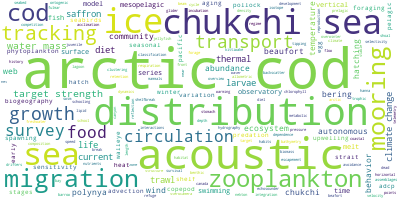
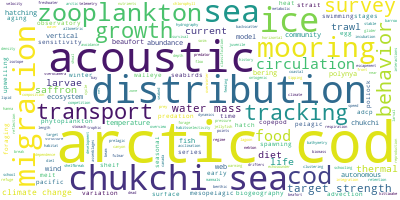
robinson

diff --git a/papers/ecology/Robinson2019MEPS.md b/papers/ecology/Robinson2019MEPS.md
@@ -1,0 +1,56 @@
+04/05/19
+## Authors:
+Robinson, H.E., and Strickler, J.R. and Henderson, M.J. and Hartline, D.K. and Lenz, P.H.
+## Title:
+Predation strategies of larval clownfish capturing evasive copepod prey
+## Keywords:
+feeding, behavior, predator-prey, larval fish
+## Geographic Coverage
+N/A
+## Field Dates:
+N/A
+## Significance:
+
+
+## Notes:
+Individual models are important for predicting animal recruitment success, though they are difficult to parameterize.
+
+Transition to feeding is a critical point in growth/success of larval fishes, and foraging models are typically focused on predator-prey encounter rates which highlight how match-mismatch in abundances and encounter rates impact growth and survival, but ignore post-encounter outcomes.  This paper examines the kinematics of clownfish predation on copepods.
+
+Copepods, the main prey of larval fish, can be highly evasive, and there is low prey capture rates particularly among smaller larval fish.  Post-encounter success was measured as a function of larval fish age and copepod developmental stage.
+
+Larval fish were fed rotifers or copepods, which were grown in batches to have multiple stages.  A high speed camera (single) was used to capture footage of the feeding attempts.  Two types of experiments were done:
+  - An experiment to determine what day post-hatch fish started to capture adult copepods
+  - behavioral experiments using 4 stages of copepods with fish of different age groups post-hatch
+
+Video analysis was done to track the tip of the fish's mouth and the center of the copepod.  Behavioral measurements were classified and measured for 3 categories, using different frame rates to make measurements at each one:
+- Approach phase, when the fish is positioning itself towards prey
+- Positioning of the body before strike
+- Strike when mouth is opened and lunge occurs
+
+Copepod measurements were also tracked to identify any escape behavior relative to the timing of the strike.
+
+Results
+- Fish were successful at capturing prey, beginning at 1 dph.
+- 243 strikes were recorded, of which 156 were successful (64%), the remaining failed or escape occured
+- Larval fish did not successfully capture adult cops until 7 dph, and fish from 6 - 9 dph attempted to capture all prey classes, fish > 9 dph no longer targeted nauplii and fish > 12 dph no longer targeted early copepodites
+
+Five behavioral markers were identified during feeding: 1) reorientation towards food 2) intial approach with normal swim mechanics 3) slower "sculling" approach without using caudal fin 4) final positioning and 5) strike.  
+
+Successful strikes
+- Final approach phase was short, < .5-1 s, with older fish taking ~40% less time to "set up" the attack
+- Swim speeds during the sculling phase were slow and steady, and increased in speed as a function of prey size (larger copepod, faster/shorter sculling)
+- Strike distance was typically 1mm from prey
+- Capture of prey occurred simultaneously with peak speed
+- Strikes became more coordinated, shortening in time over all with age of fish
+
+Copepod Evasion
+- 50% of strikes by larval fish were accompanied by an attempted escape
+- Misses by fish where escapement behavior did not occur was very rare (n=8)
+- Escapees increase as a function of stage
+- Capture was successful 40% of the time when an escape response was initiated
+- Adult cops were both more likely and more successful
+
+Larval fish strategy for feeding involves two tradeoffs: 1) very slow approach as to not alert the prey while minimizing the probability of relocation jump by the copepod and 2) minimizing the strike distance without eliciting an escape response.  These are both dependent on the age/size of both the prey and predator
+
+"Large decreases in capture success accompanying a copepod’s improving evasiveness with develop- mental stage have been demonstrated experiment...despite the fact that fish larvae improved their predatory abilities with age, capture success was lower in older larvae that targeted adult copepods, instead of nauplii or copepodites."

diff --git a/README.md b/README.md
@@ -52,6 +52,9 @@ Notes (author, year, journal in file header) on readings.  Top of each note docu
 * [Rose1995JMS - Cod (Gadus morhua L.) migration speeds and transport relative to currents on the north-east Newfoundland Shelf](https://github.com/leviner/ReadingList/tree/master/papers/acoustics/unsorted/Rose1995JMS.md) 
      * Observations of cod migration from spawning to feeding grounds over 3 years using acoustic detection of shoal centroid.  Observations indicate fish use active behavior to remain within the migration route. 
 
+## ecology 
+ 
+
 ## pacificArctic 
  
 
@@ -160,6 +163,8 @@ Notes (author, year, journal in file header) on readings.  Top of each note docu
      * This was the first fisheries survey of Arctic cod in the NE Chukchi (as far as I know), and showed that there were primarily young of the year A. cod, with a depth-dependent density.  Quast also speculates about the origin of the juvenile cod. 
 * [Vestfals2019PB - Distribution of early life stages of Arctic cod and saffron cod in the Pacific Arctic](https://github.com/leviner/ReadingList/tree/master/papers/pacificArctic/fishes/Vestfals2019PB.md) 
      * Vestfals et al aim to narrow down the potential spawning grounds for arctic and saffron cod based on the physical oceanography and summer distribution.  It contains a good review in the intro of the current literature on early life history. 
+* [VikeboMEPS2019 - Drift, growth, and survival of larval Northeast Arctic cod with simple rules of behaviour](https://github.com/leviner/ReadingList/tree/master/papers/pacificArctic/fishes/VikeboMEPS2019.md) 
+     * Modeling efforts to investigate the role of vertical behavior on dispersion and success. 
 * [Whitehouse2014PB - A trophic mass balance model of the eastern Chukchi Sea with comparisons to other high-latitude systems](https://github.com/leviner/ReadingList/tree/master/papers/pacificArctic/fishes/Whitehouse2014PB.md) 
      * This study aimed to describe the trophic structure and function of the Chukchi Sea foodweb using an ecopath model, representing just one of many possible mass-balance solutions.  Fish estimates were taken from beam trawl samples of the Eastern Chukchi shelf. 
 * [Wyllie-Echeverria1997AFS - Water masses and transport of age-0 Arctic cod and age-0 Bering flounder into the northeastern Chukchi Sea](https://github.com/leviner/ReadingList/tree/master/papers/pacificArctic/fishes/Wyllie-Echeverria1997AFS.md) 

diff --git a/papers/pacificArctic/fishes/VikeboMEPS2019.md b/papers/pacificArctic/fishes/VikeboMEPS2019.md
@@ -1,0 +1,25 @@
+02/12/19
+## Authors:
+Vikebø, Frode and Jørgensen, Christian and Kristiansen, Trond and Fiksen, Øyvind
+## Title:
+Drift, growth, and survival of larval Northeast Arctic cod with simple rules of behaviour
+## Keywords:
+model, behavior, arctic cod, vertical migration
+## Geographic Coverage
+Barents Sea
+## Field Dates:
+N/A
+## Significance:
+Modeling efforts to investigate the role of vertical behavior on dispersion and success.
+
+## Notes:
+Drift trajectory is dependent on 1) time and location of spawning and 2) the interaction between circulation and behavior.
+
+In pelagic species, swimming ability changes ontogenetically, and may impact dispersal relative to simply passive drift.  Zooplankton and fish exhibit DVM and onotogenetic migration, which here they couple with an ocean circulation model to evaluate the effect of vertical migration on larval transport and larval survival.
+
+All larvae were initialized at 3.53mm.  For the individual model, the following were independently changed throughout the model:
+- Growth, including food limitations and light dependent foraging success, size-dependent metabolism, and swimming cost
+- Predation, as a function of size and light
+- Light at depth based on lamber-beers
+
+Individuals select the next depth to be at as a function of risk sensitivity and maximizing growth (food availability).  Risk sensitivity was modeled as both genetically set and shifting later in ontogeny.  Fitness was evaluated as the total survival probability from spawn to 18mm.
